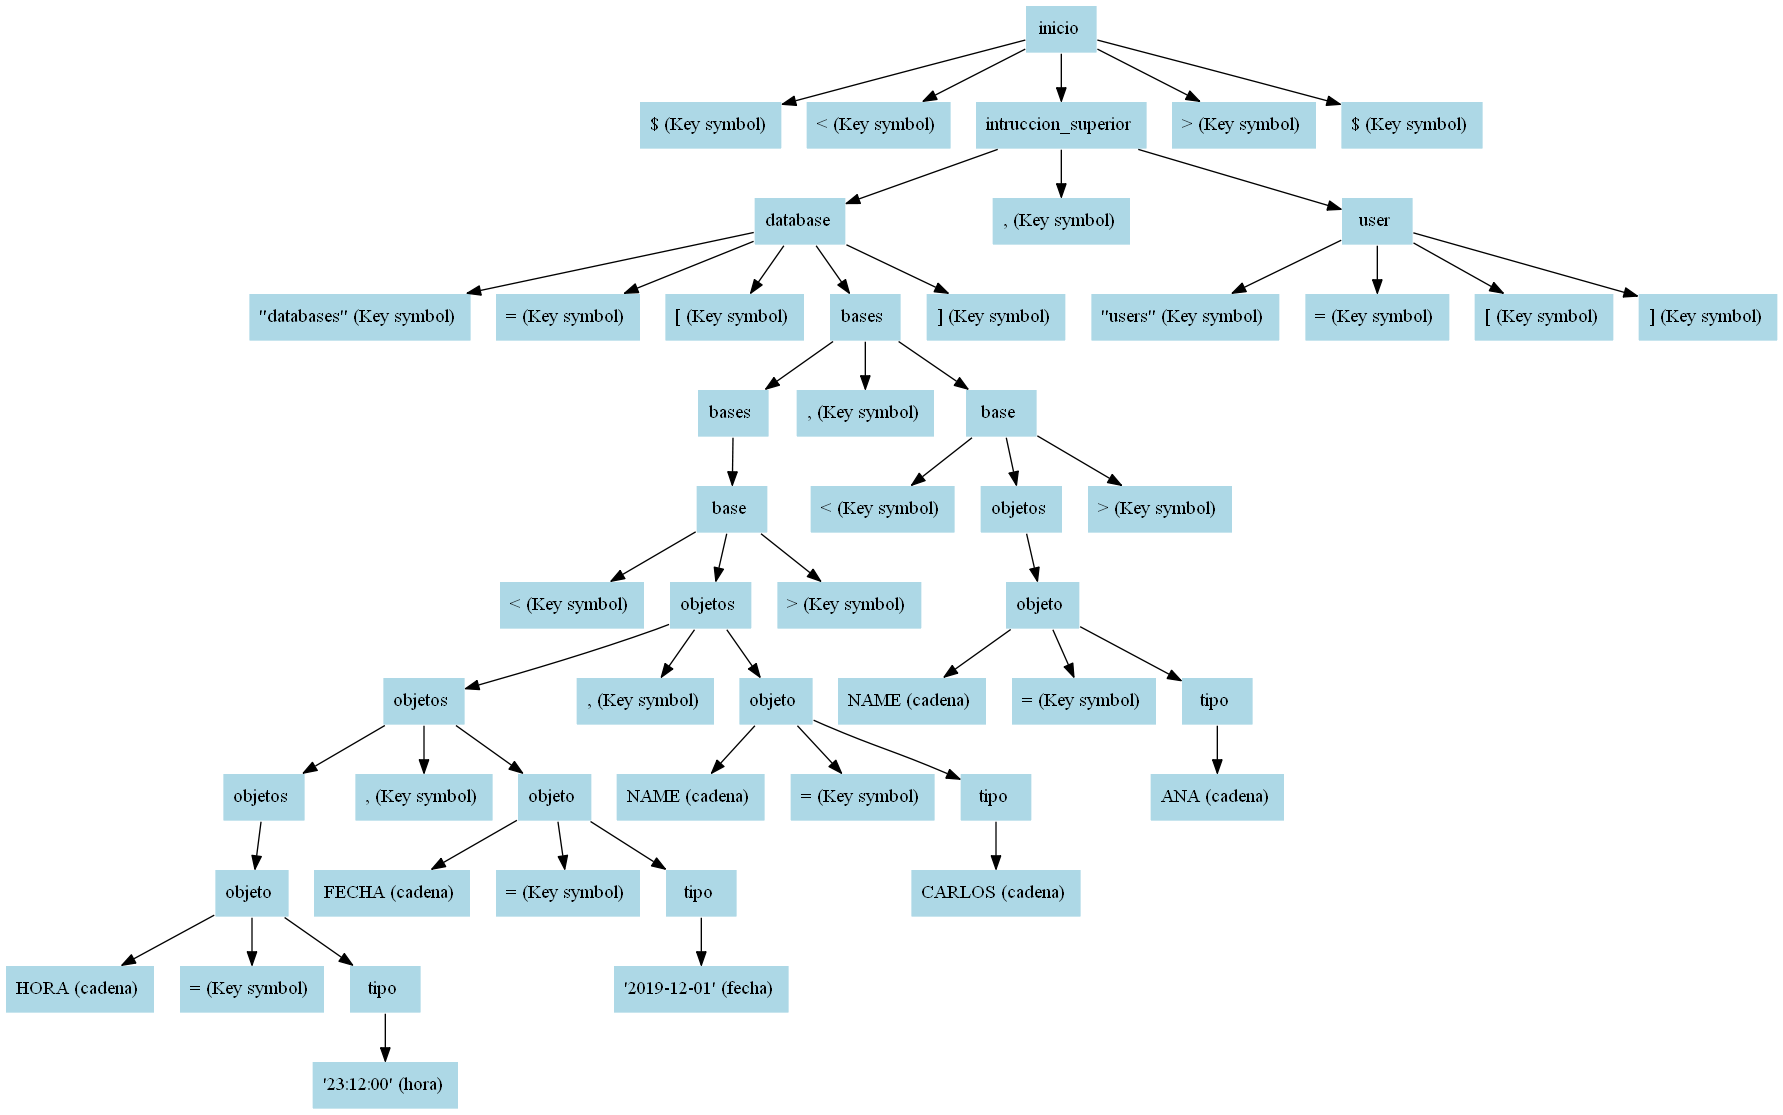
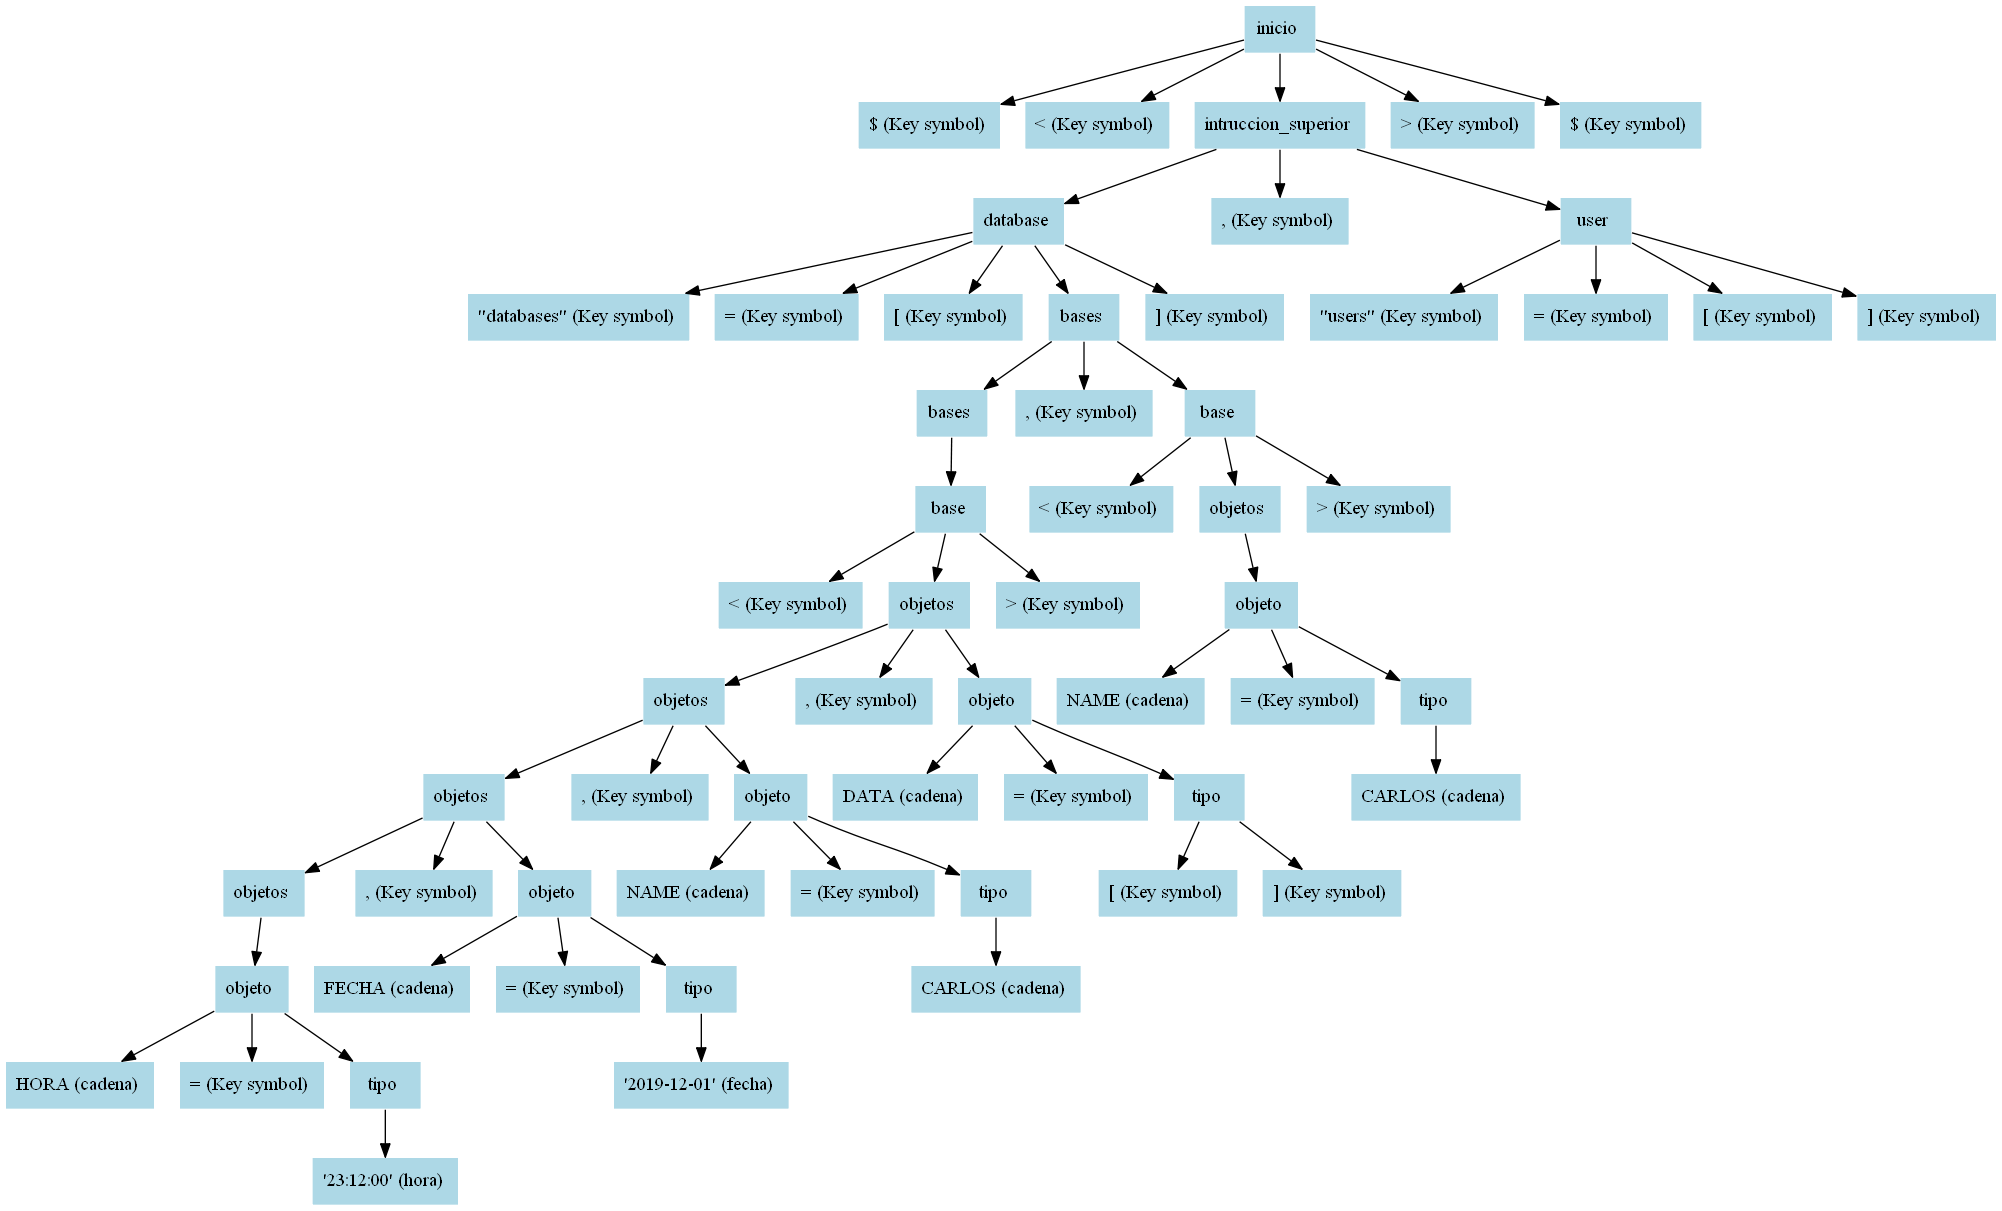
Se agrego el atributo Data donde no se le puede agregar una lista a algun otro atributo

Changed region(s): [[0.0, 0.0, 1.0, 0.9148], [0.1542, 0.9453, 0.2776, 1.0]]

diff --git a/chat-teacher-server/CHISON/Gramatica/SintacticoChison.cs b/chat-teacher-server/CHISON/Gramatica/SintacticoChison.cs
@@ -126,13 +126,29 @@ namespace cql_teacher_server.CHISON.Gramatica
 
                     //------------------------------------ OBJETO -----------------------------------------------------------------------
                     case "objeto":
+
                         string token = raiz.ChildNodes.ElementAt(0).ToString().Split("(")[0];
                         token = token.TrimEnd();
 
                         Object valor = null;
-
+                        string tipo = "";
                         ParseTreeNode hijoT = raiz.ChildNodes.ElementAt(2);
-                        string tipo = hijoT.ChildNodes.ElementAt(0).ToString().Split("(")[1];
+                        if(hijoT.ChildNodes.Count() == 2) // -------------------------------------------- [ ] -------------------------------------------------------
+                        {
+                            if (token.Equals("DATA"))
+                            {
+                                tipo = "TABLAS";
+                                valor = null;
+                            }
+                            else
+                            {
+                                System.Diagnostics.Debug.WriteLine("Error Semantico: No se le puede asignar una lista al atributo: "
+                                    + token + ", Linea: " + raiz.ChildNodes.ElementAt(0).Token.Location.Line + " Columna: "
+                                    + raiz.ChildNodes.ElementAt(0).Token.Location.Column);
+                                return null;
+                            } 
+                        }
+                        tipo = hijoT.ChildNodes.ElementAt(0).ToString().Split("(")[1];
 
                         if (tipo.Equals("hora)"))
                         {

diff --git a/chat-teacher-server/CHISON/Gramatica/GramaticaChison.cs b/chat-teacher-server/CHISON/Gramatica/GramaticaChison.cs
@@ -48,6 +48,9 @@ namespace cql_teacher_server.CHISON.Gramatica
             NonTerminal objetos = new NonTerminal("objetos");
             NonTerminal objeto = new NonTerminal("objeto");
             NonTerminal tipo = new NonTerminal("tipo");
+
+            NonTerminal listaTablas = new NonTerminal("listaTablas");
+            NonTerminal tabla = new NonTerminal("tabla");
             
             #endregion
 
@@ -79,7 +82,15 @@ namespace cql_teacher_server.CHISON.Gramatica
                       | DECIMAL
                       | FECHA
                       | HORA
+                      | LLAVEIZQ + listaTablas + LLAVEDER
+                      | LLAVEIZQ + LLAVEDER
                       ;
+
+            listaTablas.Rule = listaTablas + COMA + tabla
+                             | tabla
+                             ;
+
+            tabla.Rule = MENOR + objetos + MAYOR;
             #endregion
 
             #region Preferencias
